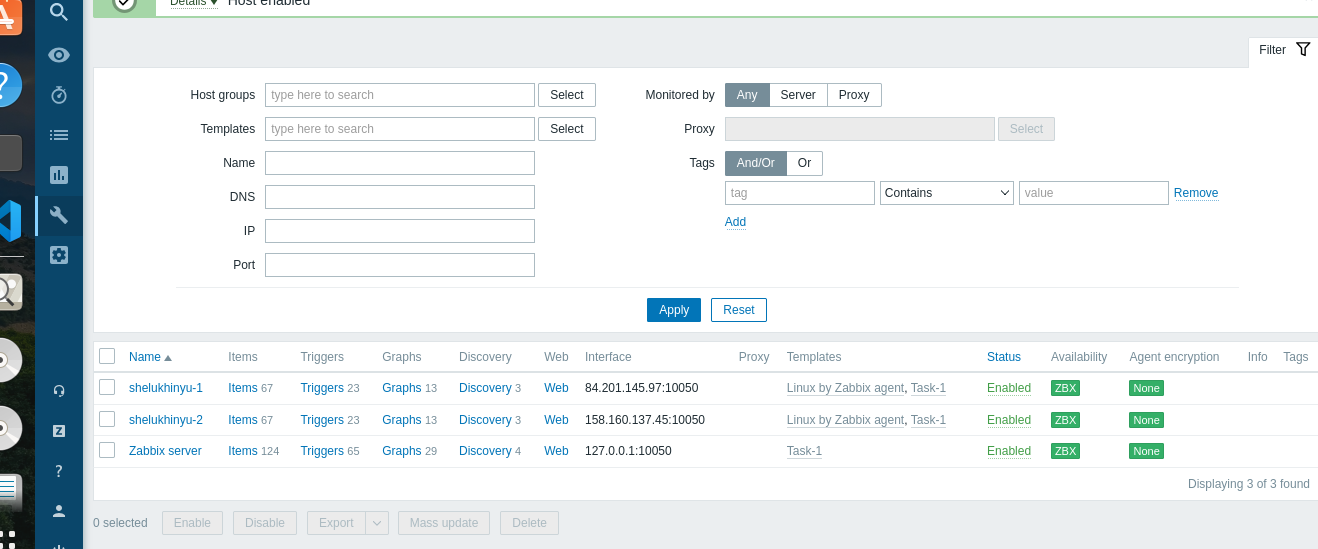
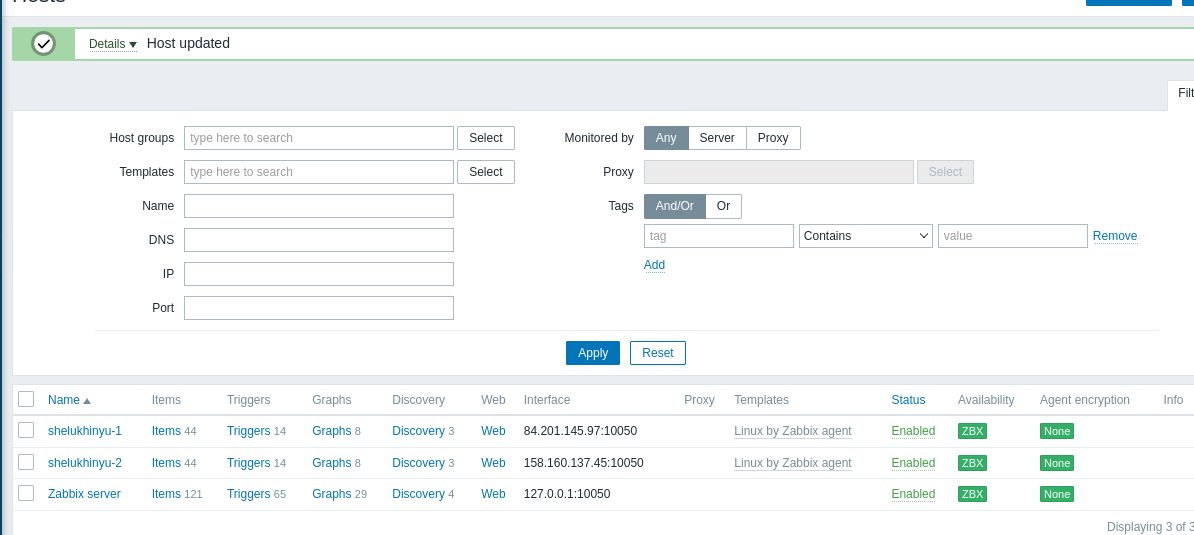
master 4 task 3

diff --git a/README.md b/README.md
@@ -30,15 +30,17 @@
 
  ---
 
-## Решение 1
+
 
 ### Для решения заданий использованы 3-и виртуальные машины в Яндекс-облаке:
-  1. ВМ  "monitor1" с установленными Zabbix-сервером.      
-  2. ВМ  "shelukhinyu-1" с установленным Zabbix-агентом.    
-  3. ВМ  "shelukhinyu-2" с установленным Zabbix-агентом.    
-<img src = "img/1-0.png" width = 60%>   
-   
-1-4.  Создадим  в веб-интерфейсе Zabbix Servera в разделе Templates новый шаблон  
+1. ВМ  "server-agent" с установленными Zabbix-сервером.      
+2. ВМ  "shelukhinyu-1" с установленным Zabbix-агентом.    
+3. ВМ  "shelukhinyu-2" с установленным Zabbix-агентом.    
+<img src = "img/1-0.png" width = 60%> 
+
+## Решение 1
+
+1-4.  Создадим  в веб-интерфейсе Zabbix Servera в разделе Templates новый шаблон c 2-мя item.   
 <img src = "img/1-1.png" width = 60%> 
 <img src = "img/1-2.png" width = 60%>
 <img src = "img/1-3.png" width = 60%>
@@ -86,9 +88,10 @@
 
 1-3.  Привяжем шаблоны к хостам.      
 <img src = "img/3-1.png" width = 60%>
-<img src = "img/3-2.png" width = 60%>
+<img src = "img/3-2.png" width = 60%>  
 4. Проверим Latest Data  
-<img src = "img/2-1.png" width = 60%>
+<img src = "img/3-3.png" width = 60%>
+<img src = "img/3-4.png" width = 60%>  
 <img src = "img/task_2-3.png" width = 60%>  
 
  ---
